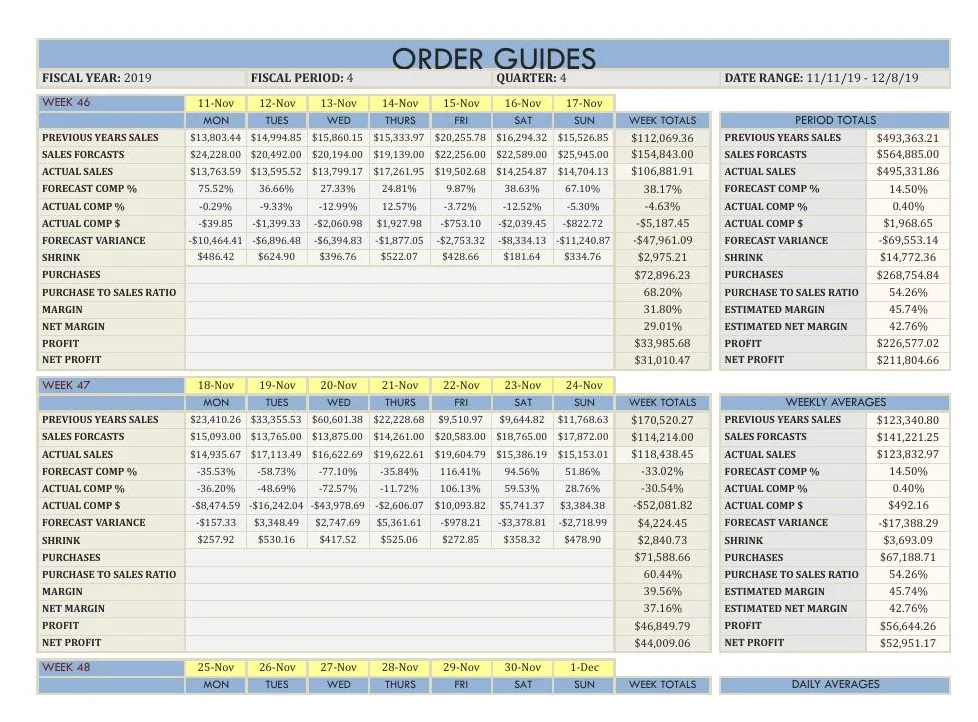
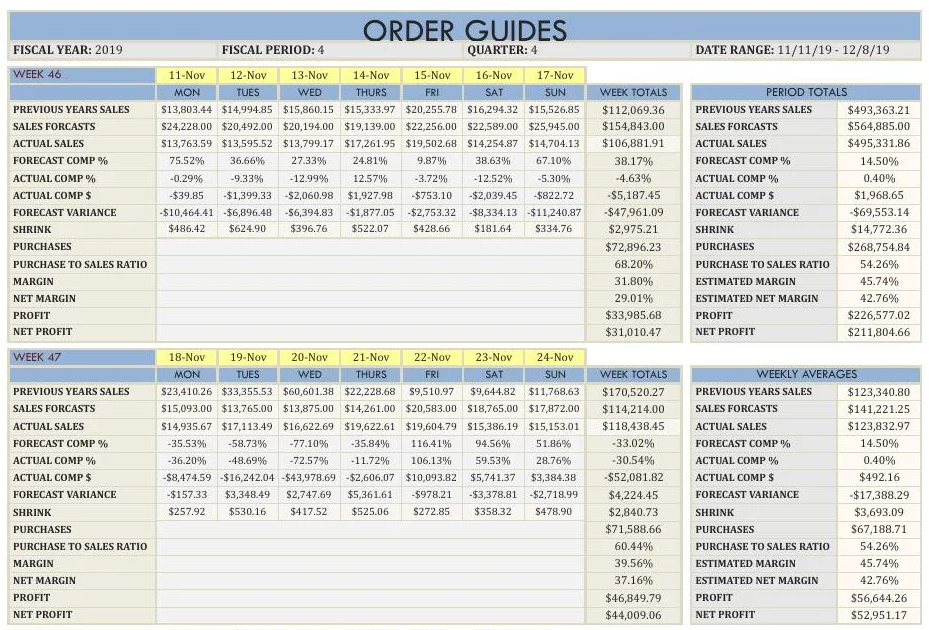
Crop retail dashboard overview screenshot

diff --git a/projects/retail-dashboard.html b/projects/retail-dashboard.html
@@ -72,7 +72,7 @@
         <div class="dashboard-gallery-grid">
           <figure class="dashboard-gallery-card">
             <button class="dashboard-gallery-trigger" type="button" data-gallery-index="0" aria-label="Open screenshot carousel at the workbook cover sheet">
-              <img src="../assets/projects/retail-dashboard/overview.webp" width="978" height="722" alt="Workbook cover sheet summarizing forecasts, sales, purchasing, margins, and profit" loading="lazy" decoding="async">
+              <img src="../assets/projects/retail-dashboard/overview.webp?v=2" width="929" height="630" alt="Workbook cover sheet summarizing forecasts, sales, purchasing, margins, and profit" loading="lazy" decoding="async">
             </button>
           </figure>
           <figure class="dashboard-gallery-card">
@@ -115,7 +115,7 @@
     <h2 class="visually-hidden" id="dashboard-gallery-title">Interactive Retail Dashboard screenshot carousel</h2>
     <button class="dashboard-gallery-close" type="button" aria-label="Close screenshot carousel">Close</button>
     <div class="dashboard-gallery-stage">
-      <figure class="dashboard-gallery-item is-active"><img src="../assets/projects/retail-dashboard/overview.webp" width="978" height="722" alt="Workbook cover sheet summarizing forecasts, sales, purchasing, margins, and profit"></figure>
+      <figure class="dashboard-gallery-item is-active"><img src="../assets/projects/retail-dashboard/overview.webp?v=2" width="929" height="630" alt="Workbook cover sheet summarizing forecasts, sales, purchasing, margins, and profit"></figure>
       <figure class="dashboard-gallery-item" hidden><img src="../assets/projects/retail-dashboard/01-bread-mavens-order-guide.webp" width="1913" height="918" alt="Bread Mavens four-week order guide"></figure>
       <figure class="dashboard-gallery-item" hidden><img src="../assets/projects/retail-dashboard/02-bread-mavens-margin-analysis.webp" width="1738" height="874" alt="Bread Mavens margin analysis"></figure>
       <figure class="dashboard-gallery-item" hidden><img src="../assets/projects/retail-dashboard/03-bread-mavens-sales-purchases.webp" width="1733" height="1084" alt="Bread Mavens sales and purchasing charts"></figure>

diff --git a/index.html b/index.html
@@ -65,7 +65,7 @@
       </article>
       <div class="project-grid">
         <article class="project-card">
-          <a class="product-visual" href="projects/retail-dashboard.html"><span class="browser-frame"><span class="browser-chrome" aria-hidden="true"><i></i><i></i><i></i></span><img src="assets/projects/retail-dashboard/overview.webp" width="978" height="722" alt="Retail order guide and inventory dashboard" loading="lazy"></span></a>
+          <a class="product-visual" href="projects/retail-dashboard.html"><span class="browser-frame"><span class="browser-chrome" aria-hidden="true"><i></i><i></i><i></i></span><img src="assets/projects/retail-dashboard/overview.webp?v=2" width="929" height="630" alt="Retail order guide and inventory dashboard" loading="lazy"></span></a>
           <div class="project-card-copy"><p class="eyebrow">Operations intelligence</p><h3>Interactive Retail Dashboard</h3><p>Inventory planning, forecasting, and performance analysis built into an advanced Excel operating tool.</p><div class="card-links"><a class="inline-link" href="projects/retail-dashboard.html">View Project →</a><a class="inline-link" href="https://1drv.ms/x/c/ea506d5d292bc7fd/IQTTc9SDa4RPRKcrD3a8gt_5AYcir9dTVObp_t3yBQQrzck?em=2" target="_blank" rel="noopener noreferrer">Open Dashboard ↗</a></div></div>
         </article>
         <article class="project-card">
